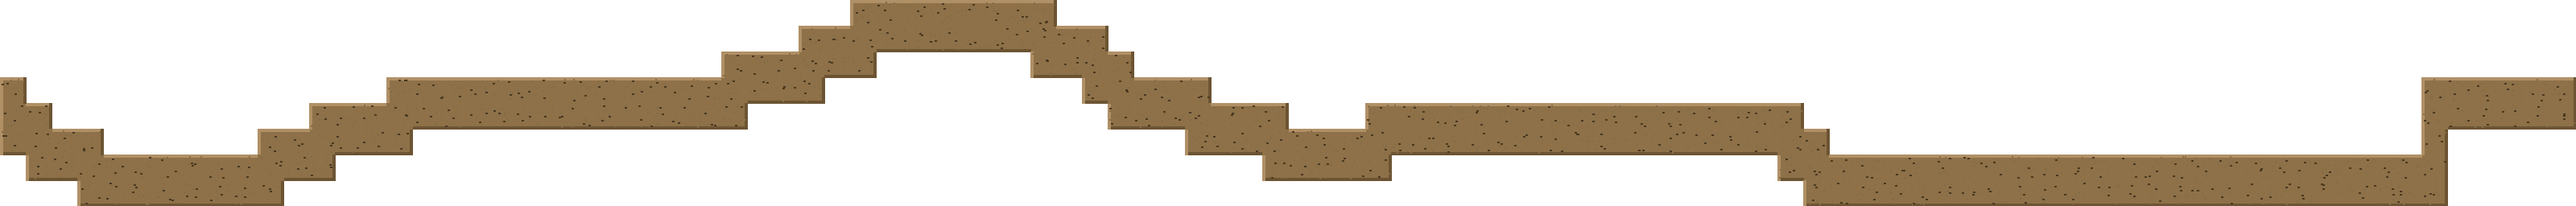
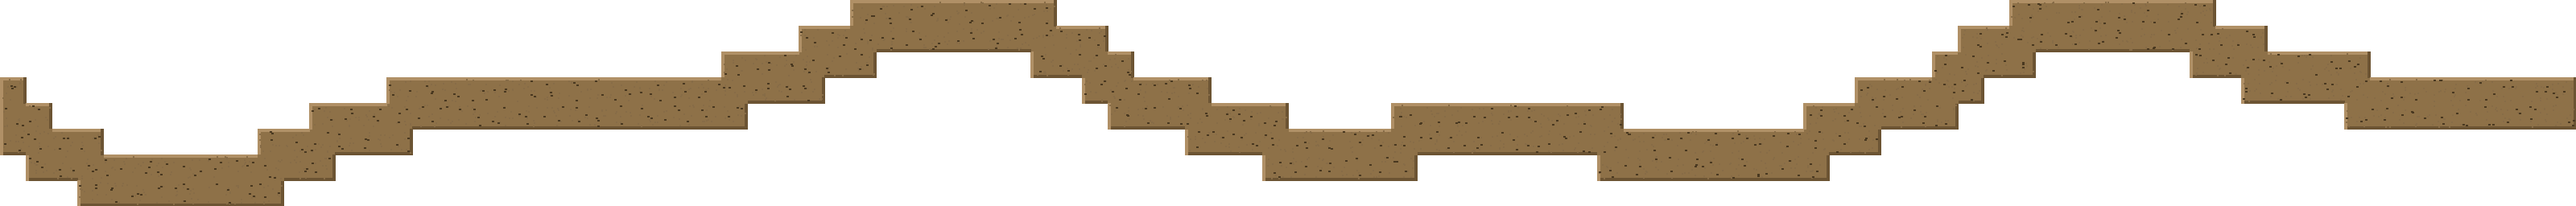
feat(world): 主路南移+世界放大+A1-A3重画（地基级重构）

Changed region(s): [[0.5938, 0.0, 0.9688, 1.0], [0.5312, 0.7188, 0.5625, 0.875], [0.5312, 0.5, 0.5625, 0.6562]]

diff --git a/_ref/houses/_design_v5.py b/_ref/houses/_design_v5.py
@@ -33,7 +33,7 @@ HERE = os.path.dirname(os.path.abspath(__file__))
 ROOT = os.path.dirname(os.path.dirname(HERE))
 OUT = os.path.join(os.path.dirname(HERE), "art", "_overview")
 TILE = 32
-W, H = 3200, 1800
+W, H = 3200, 2400
 GW, GH = W // TILE, H // TILE
 
 FONTS = ["C:/Windows/Fonts/msyh.ttc", "C:/Windows/Fonts/simhei.ttf"]
@@ -256,7 +256,10 @@ def a_star(start, goal, blocked, extra=None, max_iter=300000):
                 heapq.heappush(openq, (ng + h(nb), ng, nb, cur))
     return None
 
-ROAD_Y = 36
+# 2026-11-22 世界重构线：主路南移。旧值 36 格(1152px)，A4 沈家 36×36 贴河下缘
+# (y≈448)时底边 1600px，36 格路北缘正好 1600px = 零间隔(压到沈家)。
+# 按提示词规则南移到 52 格(1664px)，路北缘留 64px(=2格)间隔。
+ROAD_Y = 52
 
 def sway(x, amp=2.4):
     return round(amp * math.sin(x / 8.0 + 0.4) + 1.2 * math.sin(x / 3.4))

diff --git a/_ref/houses/_land_v5.py b/_ref/houses/_land_v5.py
@@ -246,10 +246,10 @@ def main():
     doc = {
         "world": {"width": dv.W, "height": dv.H},
         "safe_top": 36,
-        "safe_bottom": 668,
+        "safe_bottom": 70 * TILE,  # 2026-11-22 世界重构线：随 H 放大到 2400 重设（格数 37→70）
         # 起点：老槐西侧约 8 格（原先的 -260px 是裸像素，TILE 翻倍后会缩成 4 格），
-        # 纵向落在主路中央（ROAD_Y 是路中线所在格）。
-        "start_pos": [px(dv.TREE_CELL[0]) - 8 * TILE, px(36) + TILE // 2],
+        # 纵向落在主路中央（ROAD_Y 是路中线所在格）。世界重构线：36 → dv.ROAD_Y(52格)。
+        "start_pos": [px(dv.TREE_CELL[0]) - 8 * TILE, px(dv.ROAD_Y) + TILE // 2],
         "frames": frames,
     }
     out = old_path
